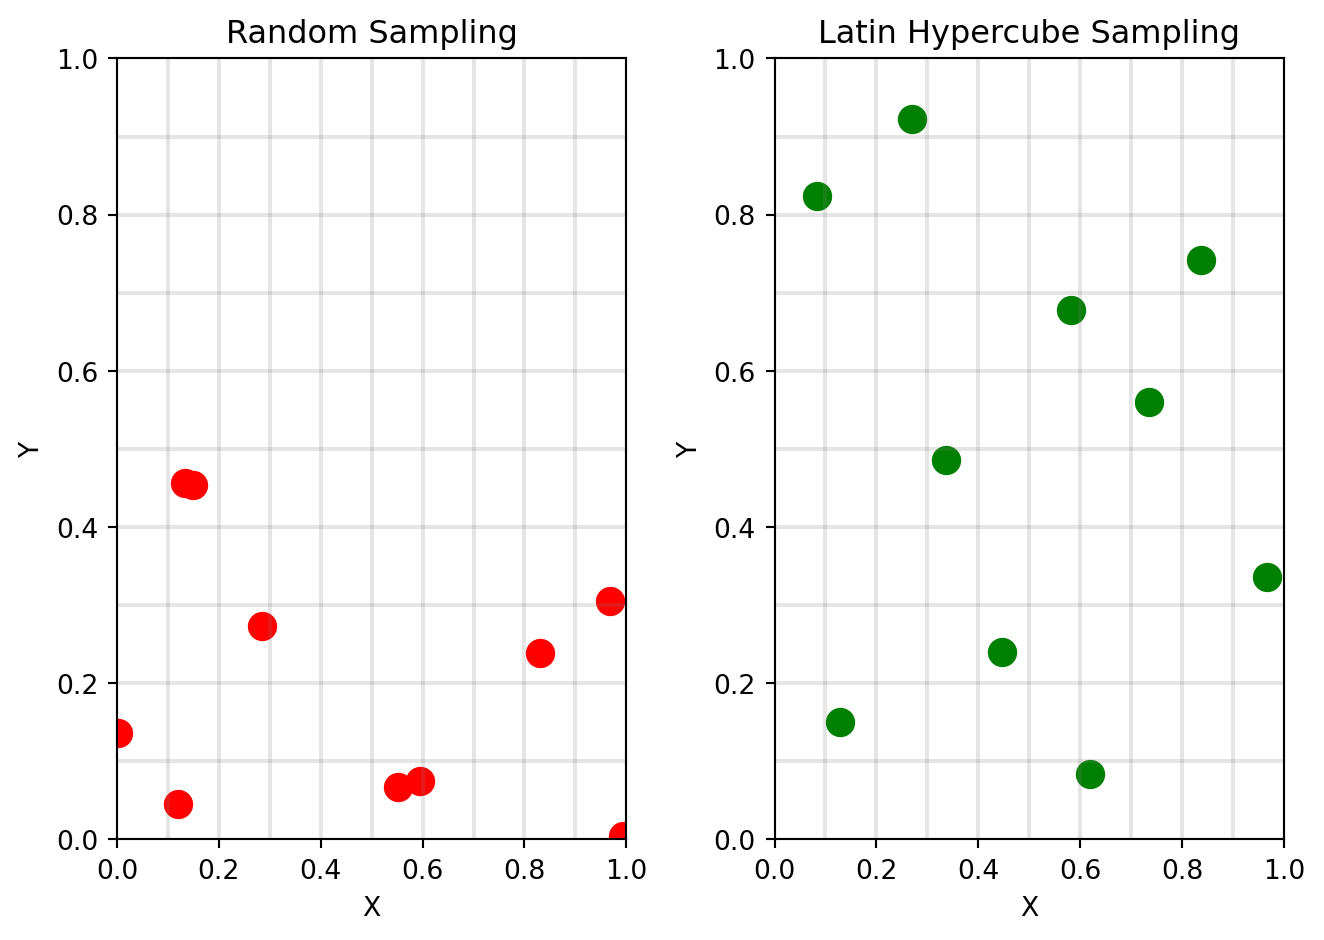
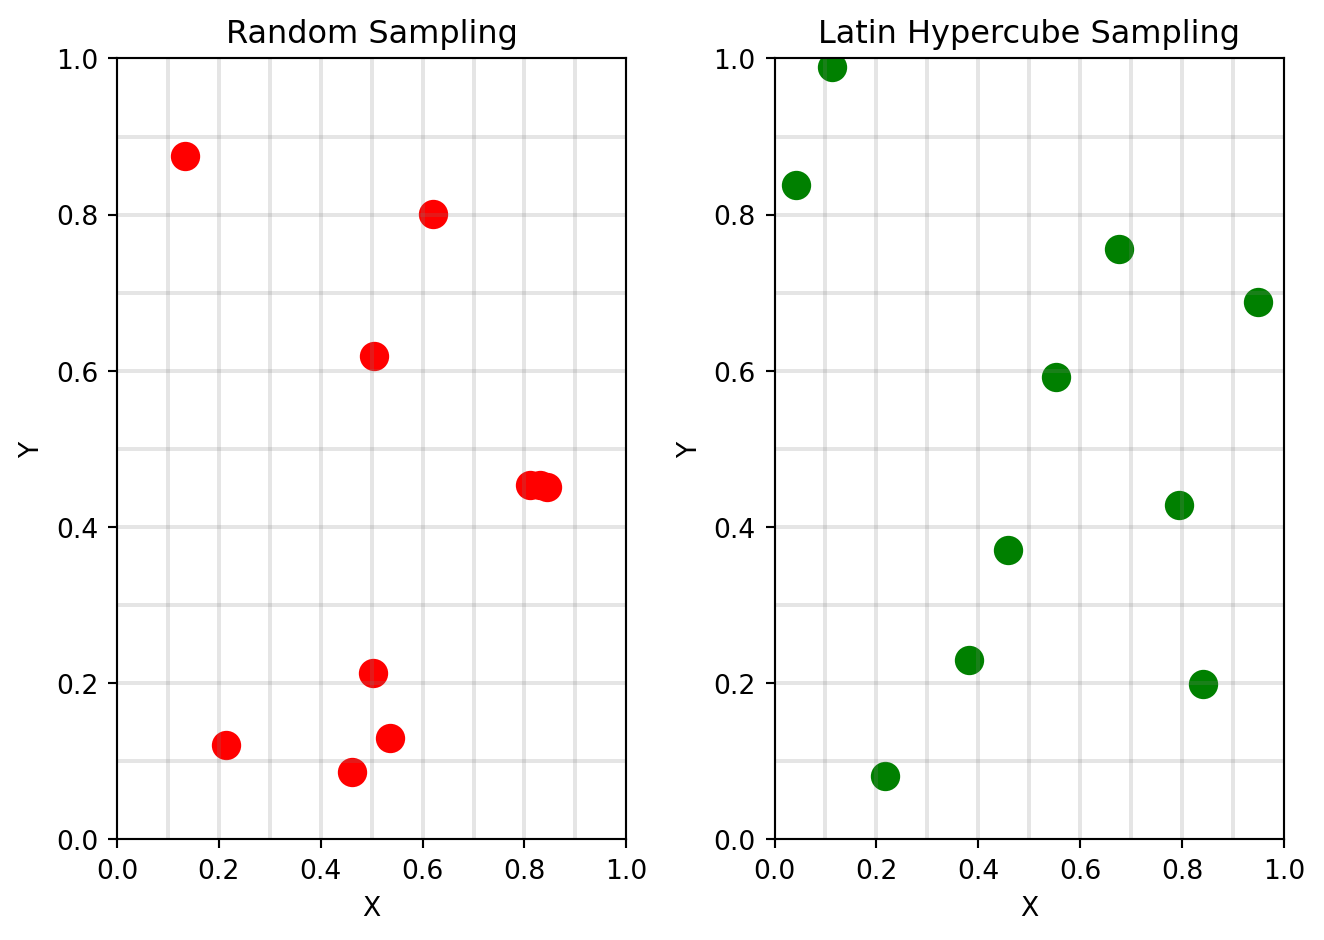
Added summary to variance reduction techniques

diff --git a/_book/monte_carlo.html b/_book/monte_carlo.html
@@ -302,6 +302,7 @@ window.Quarto = {
   <li><a href="#importance-sampling" id="toc-importance-sampling" class="nav-link" data-scroll-target="#importance-sampling"><span class="header-section-number">3.3.3</span> Importance sampling</a></li>
   <li><a href="#stratified-sampling" id="toc-stratified-sampling" class="nav-link" data-scroll-target="#stratified-sampling"><span class="header-section-number">3.3.4</span> Stratified sampling</a></li>
   <li><a href="#latin-hypercube-sampling" id="toc-latin-hypercube-sampling" class="nav-link" data-scroll-target="#latin-hypercube-sampling"><span class="header-section-number">3.3.5</span> Latin Hypercube Sampling</a></li>
+  <li><a href="#summary-of-variance-reduction-techniques" id="toc-summary-of-variance-reduction-techniques" class="nav-link" data-scroll-target="#summary-of-variance-reduction-techniques"><span class="header-section-number">3.3.6</span> Summary of Variance Reduction Techniques</a></li>
   </ul></li>
   </ul>
 </nav>
@@ -358,7 +359,7 @@ Figure&nbsp;3.1: Example of Monte-Carlo simulation to calculate <span class="mat
 </figure>
 </div>
 <p>Let’s use some code to make this more concrete:</p>
-<div id="4f24e666" class="cell" data-execution_count="1">
+<div id="b36f0713" class="cell" data-execution_count="1">
 <div class="code-copy-outer-scaffold"><div class="sourceCode cell-code" id="cb1"><pre class="sourceCode python code-with-copy"><code class="sourceCode python"><span id="cb1-1"><a href="#cb1-1" aria-hidden="true" tabindex="-1"></a><span class="im">import</span> random</span>
 <span id="cb1-2"><a href="#cb1-2" aria-hidden="true" tabindex="-1"></a><span class="im">import</span> math</span>
 <span id="cb1-3"><a href="#cb1-3" aria-hidden="true" tabindex="-1"></a></span>
@@ -388,8 +389,8 @@ Figure&nbsp;3.1: Example of Monte-Carlo simulation to calculate <span class="mat
 <span id="cb1-27"><a href="#cb1-27" aria-hidden="true" tabindex="-1"></a>N <span class="op">=</span> <span class="dv">100000</span>  <span class="co"># 100,000 darts</span></span>
 <span id="cb1-28"><a href="#cb1-28" aria-hidden="true" tabindex="-1"></a>estimated_pi <span class="op">=</span> estimate_pi_monte_carlo(N)</span>
 <span id="cb1-29"><a href="#cb1-29" aria-hidden="true" tabindex="-1"></a>estimated_pi</span></code></pre></div><button title="Copy to Clipboard" class="code-copy-button"><i class="bi"></i></button></div>
-<div class="cell-output cell-output-display" data-execution_count="37">
-<pre><code>3.15</code></pre>
+<div class="cell-output cell-output-display" data-execution_count="49">
+<pre><code>3.1486</code></pre>
 </div>
 </div>
 <p>In this code, we make use of the modeling fact that points <span class="math inline">\((x,y)\)</span> inside of the circle satisfy <span class="math inline">\(x^2+y^2\le 1\)</span>.</p>
@@ -494,7 +495,7 @@ s=\sqrt{\frac{1}{n-1}\sum_{i=1}^n (X_i - \bar{X}_n)}
 CI=\bar{X}_n \pm \left(z_{\alpha/2}\times\frac{s}{\sqrt{n}}\right)
 \]</span></p>
 <p>where <span class="math inline">\(z_{\alpha/2}\)</span> represents the <span class="math inline">\(\alpha/2\)</span>-level quantile of the standard normal distribution. As an example, consider the following implementation for the estimate of <span class="math inline">\(\pi\)</span> using Python code:</p>
-<div id="1f1f49e0" class="cell" data-execution_count="2">
+<div id="c3236919" class="cell" data-execution_count="2">
 <div class="code-copy-outer-scaffold"><div class="sourceCode cell-code" id="cb3"><pre class="sourceCode python code-with-copy"><code class="sourceCode python"><span id="cb3-1"><a href="#cb3-1" aria-hidden="true" tabindex="-1"></a><span class="im">import</span> numpy <span class="im">as</span> np</span>
 <span id="cb3-2"><a href="#cb3-2" aria-hidden="true" tabindex="-1"></a><span class="im">import</span> scipy.stats <span class="im">as</span> stats</span>
 <span id="cb3-3"><a href="#cb3-3" aria-hidden="true" tabindex="-1"></a></span>
@@ -525,8 +526,8 @@ CI=\bar{X}_n \pm \left(z_{\alpha/2}\times\frac{s}{\sqrt{n}}\right)
 <span id="cb3-28"><a href="#cb3-28" aria-hidden="true" tabindex="-1"></a><span class="bu">print</span>(<span class="ss">f"Estimate: </span><span class="sc">{</span>mu<span class="sc">:.4f}</span><span class="ss">"</span>)</span>
 <span id="cb3-29"><a href="#cb3-29" aria-hidden="true" tabindex="-1"></a><span class="bu">print</span>(<span class="ss">f"95% CI:   [</span><span class="sc">{</span>lower<span class="sc">:.4f}</span><span class="ss">, </span><span class="sc">{</span>upper<span class="sc">:.4f}</span><span class="ss">]"</span>)</span></code></pre></div><button title="Copy to Clipboard" class="code-copy-button"><i class="bi"></i></button></div>
 <div class="cell-output cell-output-stdout">
-<pre><code>Estimate: 3.1240
-95% CI:   [3.0916, 3.1564]</code></pre>
+<pre><code>Estimate: 3.1264
+95% CI:   [3.0940, 3.1588]</code></pre>
 </div>
 </div>
 </section>
@@ -573,7 +574,7 @@ I=\int_0^1 e^{x^2} dx
 \int_0^1 (1+x^2)dx = \left[x+\frac{x^3}{3}\right]_0^1=1+\frac{1}{3}=1.3333\dots
 \]</span></p>
 <p>We will now estimate both quantities in the same loop to calculate the controlled estimate.</p>
-<div id="ddd3233b" class="cell" data-execution_count="3">
+<div id="96b73ddf" class="cell" data-execution_count="3">
 <div class="code-copy-outer-scaffold"><div class="sourceCode cell-code" id="cb5"><pre class="sourceCode python code-with-copy"><code class="sourceCode python"><span id="cb5-1"><a href="#cb5-1" aria-hidden="true" tabindex="-1"></a><span class="im">import</span> numpy <span class="im">as</span> np</span>
 <span id="cb5-2"><a href="#cb5-2" aria-hidden="true" tabindex="-1"></a><span class="im">import</span> matplotlib.pyplot <span class="im">as</span> plt</span>
 <span id="cb5-3"><a href="#cb5-3" aria-hidden="true" tabindex="-1"></a></span>
@@ -610,7 +611,7 @@ I=\int_0^1 e^{x^2} dx
 <span id="cb5-34"><a href="#cb5-34" aria-hidden="true" tabindex="-1"></a>    }</span></code></pre></div><button title="Copy to Clipboard" class="code-copy-button"><i class="bi"></i></button></div>
 </div>
 <p>Let’s now run the code for 10000 iterations and compare the results:</p>
-<div id="6a870238" class="cell" data-execution_count="4">
+<div id="5bcd67c6" class="cell" data-execution_count="4">
 <div class="code-copy-outer-scaffold"><div class="sourceCode cell-code" id="cb6"><pre class="sourceCode python code-with-copy"><code class="sourceCode python"><span id="cb6-1"><a href="#cb6-1" aria-hidden="true" tabindex="-1"></a>N <span class="op">=</span> <span class="dv">10000</span></span>
 <span id="cb6-2"><a href="#cb6-2" aria-hidden="true" tabindex="-1"></a>results <span class="op">=</span> simulation_control_variates(N)</span>
 <span id="cb6-3"><a href="#cb6-3" aria-hidden="true" tabindex="-1"></a></span>
@@ -633,14 +634,14 @@ I=\int_0^1 e^{x^2} dx
 <div class="cell-output cell-output-stdout">
 <pre><code>--- Results with N=10,000 ---
 True Value:               1.462652
-Naive MC Estimate:        1.469084 (Error: 0.006432)
-Control Variate Estimate: 1.463694 (Error: 0.001042)
+Naive MC Estimate:        1.455689 (Error: 0.006963)
+Control Variate Estimate: 1.463257 (Error: 0.000605)
 
 --- Variance Analysis ---
-Correlation (X, Y):       0.9916
-Naive Variance:           0.230875
-CV Variance:              0.003865
-Variance Reduction:       59.7x lower variance</code></pre>
+Correlation (X, Y):       0.9917
+Naive Variance:           0.223857
+CV Variance:              0.003712
+Variance Reduction:       60.3x lower variance</code></pre>
 </div>
 </div>
 <p>As can be seen, the variance reduction achieved by the control variates method is in this case around 60x, which means that running 10,000 iterations using the control variates method is <em>as good as running classical MC with 600,000 iterations</em>.</p>
@@ -666,7 +667,7 @@ E_p[f(x)]=\int f(x)p(x)dx
 \hat{I}=\frac{1}{n}\sum_{i=1}^n f(x_i)\cdot\frac{p(x_i)}{q(x_i)}=\frac{1}{n}\sum_{i=1}^n w_i f(x_i)
 \]</span></p>
 <p>Note that our samples now come from <span class="math inline">\(q(x)\)</span> instead of <span class="math inline">\(p(x)\)</span> (because we sample from the biased distribution). Let’s now consider as an example a five-sigma event under a standard normal distribution governed by the probability <span class="math inline">\(P(X&gt;5)\)</span>, where the true probability is about <span class="math inline">\(2.87\times 10^{-7}\)</span>. In the real world, the true probability distribution is <span class="math inline">\(N(0,1)\)</span>. Now we can sample from a biased distribution by moving the mean: <span class="math inline">\(N(5,1)\)</span>. In this distribution, events <span class="math inline">\(X&gt;5\)</span> happen roughly 50% of the time.</p>
-<div id="57d0772d" class="cell" data-execution_count="5">
+<div id="f824092d" class="cell" data-execution_count="5">
 <div class="code-copy-outer-scaffold"><div class="sourceCode cell-code" id="cb8"><pre class="sourceCode python code-with-copy"><code class="sourceCode python"><span id="cb8-1"><a href="#cb8-1" aria-hidden="true" tabindex="-1"></a><span class="im">import</span> numpy <span class="im">as</span> np</span>
 <span id="cb8-2"><a href="#cb8-2" aria-hidden="true" tabindex="-1"></a><span class="im">import</span> scipy.stats <span class="im">as</span> stats</span>
 <span id="cb8-3"><a href="#cb8-3" aria-hidden="true" tabindex="-1"></a><span class="im">import</span> matplotlib.pyplot <span class="im">as</span> plt</span>
@@ -698,7 +699,7 @@ E_p[f(x)]=\int f(x)p(x)dx
 <span id="cb8-29"><a href="#cb8-29" aria-hidden="true" tabindex="-1"></a>    <span class="cf">return</span> prob_naive, var_naive, prob_is, var_is</span></code></pre></div><button title="Copy to Clipboard" class="code-copy-button"><i class="bi"></i></button></div>
 </div>
 <p>In this code, we compare the probability estimates and the variances obtained by standard MC and importance sampling.</p>
-<div id="d83ca310" class="cell" data-execution_count="6">
+<div id="ba7bc806" class="cell" data-execution_count="6">
 <div class="code-copy-outer-scaffold"><div class="sourceCode cell-code" id="cb9"><pre class="sourceCode python code-with-copy"><code class="sourceCode python"><span id="cb9-1"><a href="#cb9-1" aria-hidden="true" tabindex="-1"></a>N <span class="op">=</span> <span class="dv">10000</span> <span class="co"># Only 10,000 samples (Small for a rare event!)</span></span>
 <span id="cb9-2"><a href="#cb9-2" aria-hidden="true" tabindex="-1"></a>target <span class="op">=</span> <span class="dv">5</span></span>
 <span id="cb9-3"><a href="#cb9-3" aria-hidden="true" tabindex="-1"></a></span>
@@ -722,8 +723,8 @@ E_p[f(x)]=\int f(x)p(x)dx
 True Probability: 0.0000002867
 Naive MC Estimate: 0.0000000000
 Naive Variance:    0.0000000000 (Likely zero if no hits occurred)
-Imp. Samp Estimate:0.0000002928
-Imp. Samp Variance:0.00000000000000004780
+Imp. Samp Estimate:0.0000002934
+Imp. Samp Variance:0.00000000000000004861
 Naive method failed completely (0 hits). Importance Sampling is infinitely better here.</code></pre>
 </div>
 </div>
@@ -777,7 +778,7 @@ Naive method failed completely (0 hits). Importance Sampling is infinitely bette
 <p>In summary, stratified sampling using proportional strata is always equal to or better than standard sampling because it eliminates the variance caused by the variability in sampling proportions across strata with different means.</p>
 <p><strong>Example</strong></p>
 <p>As an example, let’s integrate <span class="math inline">\(f(x)=e^x\)</span> in the interval <span class="math inline">\([0,1]\)</span>. For this, we will define <span class="math inline">\(H\)</span> equally-spaced strata in this interval.</p>
-<div id="f535495c" class="cell" data-execution_count="7">
+<div id="78b80848" class="cell" data-execution_count="7">
 <div class="code-copy-outer-scaffold"><div class="sourceCode cell-code" id="cb11"><pre class="sourceCode python code-with-copy"><code class="sourceCode python"><span id="cb11-1"><a href="#cb11-1" aria-hidden="true" tabindex="-1"></a><span class="im">import</span> numpy <span class="im">as</span> np</span>
 <span id="cb11-2"><a href="#cb11-2" aria-hidden="true" tabindex="-1"></a><span class="im">import</span> matplotlib.pyplot <span class="im">as</span> plt</span>
 <span id="cb11-3"><a href="#cb11-3" aria-hidden="true" tabindex="-1"></a></span>
@@ -798,7 +799,7 @@ Naive method failed completely (0 hits). Importance Sampling is infinitely bette
 <span id="cb11-18"><a href="#cb11-18" aria-hidden="true" tabindex="-1"></a>    <span class="cf">return</span> est_naive, est_stratified</span></code></pre></div><button title="Copy to Clipboard" class="code-copy-button"><i class="bi"></i></button></div>
 </div>
 <p>We now run the experiment multiple times to determine the variance of the method. Because stratified samples are not iid, we need to repeat the experiment to get an estimate of its variance:</p>
-<div id="82bb77f5" class="cell" data-execution_count="8">
+<div id="ac2f2340" class="cell" data-execution_count="8">
 <div class="code-copy-outer-scaffold"><div class="sourceCode cell-code" id="cb12"><pre class="sourceCode python code-with-copy"><code class="sourceCode python"><span id="cb12-1"><a href="#cb12-1" aria-hidden="true" tabindex="-1"></a>experiments <span class="op">=</span> <span class="dv">1000</span></span>
 <span id="cb12-2"><a href="#cb12-2" aria-hidden="true" tabindex="-1"></a>N <span class="op">=</span> <span class="dv">100</span> <span class="co"># Samples per experiment</span></span>
 <span id="cb12-3"><a href="#cb12-3" aria-hidden="true" tabindex="-1"></a></span>
@@ -852,10 +853,10 @@ Naive method failed completely (0 hits). Importance Sampling is infinitely bette
 <div class="cell-output cell-output-stdout">
 <pre><code>True Value: 1.718282
 ------------------------------
-Naive MC Variance (across 1000 runs):      0.00256470
-Stratified MC Variance (across 1000 runs): 0.00000028
+Naive MC Variance (across 1000 runs):      0.00262891
+Stratified MC Variance (across 1000 runs): 0.00000026
 ------------------------------
-Variance Reduction Factor: 9106.9x</code></pre>
+Variance Reduction Factor: 10025.5x</code></pre>
 </div>
 <div class="cell-output cell-output-display">
 <div>
@@ -880,7 +881,7 @@ Variance Reduction Factor: 9106.9x</code></pre>
 <li>Based on these permutations, we assign the intervals to the samples.</li>
 <li>To avoid each sample to be exactly at the center, we add a random jitter to each point.</li>
 </ol>
-<div id="0367bee0" class="cell" data-execution_count="9">
+<div id="85c881bf" class="cell" data-execution_count="9">
 <div class="code-copy-outer-scaffold"><div class="sourceCode cell-code" id="cb14"><pre class="sourceCode python code-with-copy"><code class="sourceCode python"><span id="cb14-1"><a href="#cb14-1" aria-hidden="true" tabindex="-1"></a><span class="im">import</span> numpy <span class="im">as</span> np</span>
 <span id="cb14-2"><a href="#cb14-2" aria-hidden="true" tabindex="-1"></a><span class="im">import</span> matplotlib.pyplot <span class="im">as</span> plt</span>
 <span id="cb14-3"><a href="#cb14-3" aria-hidden="true" tabindex="-1"></a></span>
@@ -897,7 +898,7 @@ Variance Reduction Factor: 9106.9x</code></pre>
 <span id="cb14-14"><a href="#cb14-14" aria-hidden="true" tabindex="-1"></a>    <span class="cf">return</span> samples</span></code></pre></div><button title="Copy to Clipboard" class="code-copy-button"><i class="bi"></i></button></div>
 </div>
 <p>In two dimensions, this would look like the following:</p>
-<div id="bd4a558c" class="cell" data-execution_count="10">
+<div id="a5dea861" class="cell" data-execution_count="10">
 <div class="code-copy-outer-scaffold"><div class="sourceCode cell-code" id="cb15"><pre class="sourceCode python code-with-copy"><code class="sourceCode python"><span id="cb15-1"><a href="#cb15-1" aria-hidden="true" tabindex="-1"></a>N <span class="op">=</span> <span class="dv">10</span> <span class="co"># 10 samples</span></span>
 <span id="cb15-2"><a href="#cb15-2" aria-hidden="true" tabindex="-1"></a>D <span class="op">=</span> <span class="dv">2</span>  <span class="co"># 2 dimensions</span></span>
 <span id="cb15-3"><a href="#cb15-3" aria-hidden="true" tabindex="-1"></a></span>
@@ -945,7 +946,7 @@ Variance Reduction Factor: 9106.9x</code></pre>
 f(\mathbf{x})=\sum_{i=1}^5 x_i^2
 \]</span></p>
 <p>in the interval <span class="math inline">\([-1,1]\)</span> for each dimension <span class="math inline">\(x_i\)</span>. For this, we will use the standard latin hypersquare sampling implementation of the SciPy library <code>scipy.stats.qmc</code>.</p>
-<div id="6fedd28a" class="cell" data-execution_count="11">
+<div id="b3fb3041" class="cell" data-execution_count="11">
 <div class="code-copy-outer-scaffold"><div class="sourceCode cell-code" id="cb16"><pre class="sourceCode python code-with-copy"><code class="sourceCode python"><span id="cb16-1"><a href="#cb16-1" aria-hidden="true" tabindex="-1"></a><span class="im">import</span> numpy <span class="im">as</span> np</span>
 <span id="cb16-2"><a href="#cb16-2" aria-hidden="true" tabindex="-1"></a><span class="im">import</span> matplotlib.pyplot <span class="im">as</span> plt</span>
 <span id="cb16-3"><a href="#cb16-3" aria-hidden="true" tabindex="-1"></a><span class="im">from</span> scipy.stats <span class="im">import</span> qmc</span>
@@ -976,7 +977,7 @@ f(\mathbf{x})=\sum_{i=1}^5 x_i^2
 <span id="cb16-28"><a href="#cb16-28" aria-hidden="true" tabindex="-1"></a>    errors_lhs.append(<span class="bu">abs</span>(lhs_estimate <span class="op">-</span> true_mean))</span></code></pre></div><button title="Copy to Clipboard" class="code-copy-button"><i class="bi"></i></button></div>
 </div>
 <p>Note that the <code>LatinHypercube</code> sampler outputs samples in the interval <span class="math inline">\([0,1]\)</span> which need so be scaled to <span class="math inline">\([-1,1]\)</span> using the scaler <code>qmc.scale</code>. Let’s now visualize the results:</p>
-<div id="65841fb4" class="cell" data-execution_count="12">
+<div id="4e43e96b" class="cell" data-execution_count="12">
 <div class="code-copy-outer-scaffold"><div class="sourceCode cell-code" id="cb17"><pre class="sourceCode python code-with-copy"><code class="sourceCode python"><span id="cb17-1"><a href="#cb17-1" aria-hidden="true" tabindex="-1"></a>plt.semilogy(sample_sizes, errors_mc, color<span class="op">=</span><span class="st">'red'</span>, alpha<span class="op">=</span><span class="fl">0.4</span>, label<span class="op">=</span><span class="st">'Standard Monte Carlo Noise'</span>)</span>
 <span id="cb17-2"><a href="#cb17-2" aria-hidden="true" tabindex="-1"></a>plt.semilogy(sample_sizes, errors_lhs, color<span class="op">=</span><span class="st">'green'</span>, alpha<span class="op">=</span><span class="fl">0.4</span>, label<span class="op">=</span><span class="st">'LHS Noise'</span>)</span>
 <span id="cb17-3"><a href="#cb17-3" aria-hidden="true" tabindex="-1"></a></span>
@@ -1010,12 +1011,44 @@ f(\mathbf{x})=\sum_{i=1}^5 x_i^2
 </div>
 <div class="cell-output cell-output-stdout">
 <pre><code>Final Error (N=990):
-Standard MC Error: 0.011961
-LHS Error:         0.000073
-Improvement Factor: 164.8x more accurate</code></pre>
+Standard MC Error: 0.010545
+LHS Error:         0.000014
+Improvement Factor: 735.9x more accurate</code></pre>
 </div>
 </div>
 <p>In this plot, we have used a logarithmic scale on the <span class="math inline">\(y\)</span>-axis to better see small errors. Additionally, a trend line is provided which is the moving average of the errors. As can be seen, the LHS errors are clearly lower than the standard MC errors and the method is about 100x more accurate than standard MC using the same number of samples.</p>
+</section>
+<section id="summary-of-variance-reduction-techniques" class="level3" data-number="3.3.6">
+<h3 data-number="3.3.6" class="anchored" data-anchor-id="summary-of-variance-reduction-techniques"><span class="header-section-number">3.3.6</span> Summary of Variance Reduction Techniques</h3>
+<p>Variance reduction techniques are essential in Monte Carlo simulations to improve the accuracy of estimates without requiring a significant increase in the number of samples. Below is a summary of the techniques discussed and when to use each:</p>
+<ol type="1">
+<li><strong>Antithetic Variates</strong>:
+<ul>
+<li><strong>When to use</strong>: Use when the random variables are symmetric, and you can generate negatively correlated pairs (e.g., sampling <span class="math inline">\(U\)</span> and <span class="math inline">\(1-U\)</span>).</li>
+<li><strong>Advantage</strong>: Reduces variance by ensuring that large deviations in one direction are counterbalanced by deviations in the opposite direction.</li>
+</ul></li>
+<li><strong>Control Variates</strong>:
+<ul>
+<li><strong>When to use</strong>: Use when you have a control variable that is highly correlated with the target variable and whose expected value is known.</li>
+<li><strong>Advantage</strong>: Significantly reduces variance by leveraging the known expected value of the control variable to correct the estimate.</li>
+</ul></li>
+<li><strong>Importance Sampling</strong>:
+<ul>
+<li><strong>When to use</strong>: Use when the region of interest in the sampling space is rare or has low probability (e.g., rare events like market crashes).</li>
+<li><strong>Advantage</strong>: Focuses sampling on the important regions of the space, improving efficiency and reducing variance for rare events.</li>
+</ul></li>
+<li><strong>Stratified Sampling</strong>:
+<ul>
+<li><strong>When to use</strong>: Use when the sampling space can be divided into distinct strata, and you want to ensure proportional representation from each stratum.</li>
+<li><strong>Advantage</strong>: Reduces variance by eliminating variability caused by uneven sampling across strata.</li>
+</ul></li>
+<li><strong>Latin Hypercube Sampling (LHS)</strong>:
+<ul>
+<li><strong>When to use</strong>: Use in high-dimensional problems where stratified sampling becomes computationally expensive.</li>
+<li><strong>Advantage</strong>: Ensures that samples are evenly distributed across each dimension, reducing variance in high-dimensional spaces.</li>
+</ul></li>
+</ol>
+<p>Each technique has its strengths and is suited for specific scenarios. By selecting the appropriate method, a significant variance reduction and improved efficiency of the MC simulation can be achieved.</p>
 
 
 </section>
